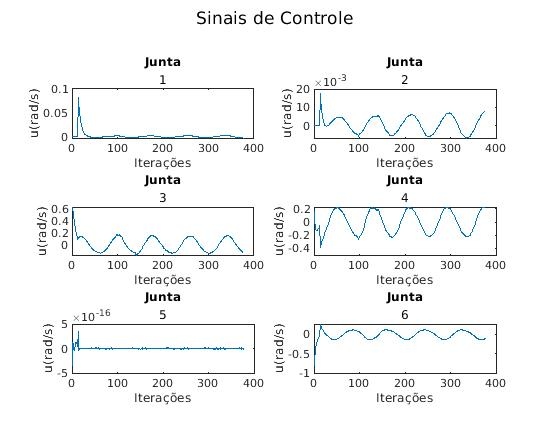
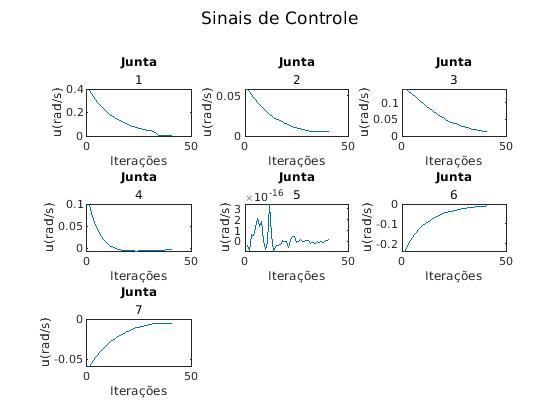
finalização 2.0

Changed region(s): [[0.0309, 0.1238, 0.9273, 0.9595], [0.34, 0.031, 0.6491, 0.0619], [0.8345, 0.5262, 0.8655, 0.5571]]

diff --git a/Questao1/Questao1B_iv.m b/Questao1/Questao1B_iv.m
@@ -16,12 +16,13 @@ if (clientID >- 1)
 
     h = [0 0 0 0 0 0 0];
 
-    [r, h(1)] = sim.simxGetObjectHandle(clientID, 'joint_1', sim.simx_opmode_blocking);
-    [r, h(2)] = sim.simxGetObjectHandle(clientID, 'joint_2', sim.simx_opmode_blocking);
-    [r, h(3)] = sim.simxGetObjectHandle(clientID, 'joint_3', sim.simx_opmode_blocking);
-    [r, h(4)] = sim.simxGetObjectHandle(clientID, 'joint_4', sim.simx_opmode_blocking);
-    [r, h(5)] = sim.simxGetObjectHandle(clientID, 'joint_5', sim.simx_opmode_blocking);
-    [r, h(6)] = sim.simxGetObjectHandle(clientID, 'joint_6', sim.simx_opmode_blocking);
+    [r, h(1)] = sim.simxGetObjectHandle(clientID, 'joint_7', sim.simx_opmode_blocking);
+    [r, h(2)] = sim.simxGetObjectHandle(clientID, 'joint_1', sim.simx_opmode_blocking);
+    [r, h(3)] = sim.simxGetObjectHandle(clientID, 'joint_2', sim.simx_opmode_blocking);
+    [r, h(4)] = sim.simxGetObjectHandle(clientID, 'joint_3', sim.simx_opmode_blocking);
+    [r, h(5)] = sim.simxGetObjectHandle(clientID, 'joint_4', sim.simx_opmode_blocking);
+    [r, h(6)] = sim.simxGetObjectHandle(clientID, 'joint_5', sim.simx_opmode_blocking);
+    [r, h(7)] = sim.simxGetObjectHandle(clientID, 'joint_6', sim.simx_opmode_blocking);
 
 else
     disp('CoppeliaSim não ativo, realizando simulações locais');
@@ -127,7 +128,7 @@ while (norm(e) > epsilon)% Critério de parada
     if (clientID >- 1)
 
         for i = 1:6
-            sim.simxSetJointTargetPosition(clientID, h(i), q(i), sim.simx_opmode_streaming)
+            sim.simxSetJointTargetPosition(clientID, h(i + 1), q(i), sim.simx_opmode_streaming)
         end
 
     end
@@ -193,7 +194,7 @@ while (toc(inicioCirculo) < 90)
     if (clientID >- 1)
 
         for i = 1:6
-            sim.simxSetJointTargetPosition(clientID, h(i), q(i), sim.simx_opmode_streaming)
+            sim.simxSetJointTargetPosition(clientID, h(i + 1), q(i), sim.simx_opmode_streaming)
         end
 
     end

diff --git a/Questao1/Questao1B_v.m b/Questao1/Questao1B_v.m
@@ -16,12 +16,13 @@ if (clientID >- 1)
 
     h = [0 0 0 0 0 0 0];
 
-    [r, h(1)] = sim.simxGetObjectHandle(clientID, 'joint_1', sim.simx_opmode_blocking);
-    [r, h(2)] = sim.simxGetObjectHandle(clientID, 'joint_2', sim.simx_opmode_blocking);
-    [r, h(3)] = sim.simxGetObjectHandle(clientID, 'joint_3', sim.simx_opmode_blocking);
-    [r, h(4)] = sim.simxGetObjectHandle(clientID, 'joint_4', sim.simx_opmode_blocking);
-    [r, h(5)] = sim.simxGetObjectHandle(clientID, 'joint_5', sim.simx_opmode_blocking);
-    [r, h(6)] = sim.simxGetObjectHandle(clientID, 'joint_6', sim.simx_opmode_blocking);
+    [r, h(1)] = sim.simxGetObjectHandle(clientID, 'joint_7', sim.simx_opmode_blocking);
+    [r, h(2)] = sim.simxGetObjectHandle(clientID, 'joint_1', sim.simx_opmode_blocking);
+    [r, h(3)] = sim.simxGetObjectHandle(clientID, 'joint_2', sim.simx_opmode_blocking);
+    [r, h(4)] = sim.simxGetObjectHandle(clientID, 'joint_3', sim.simx_opmode_blocking);
+    [r, h(5)] = sim.simxGetObjectHandle(clientID, 'joint_4', sim.simx_opmode_blocking);
+    [r, h(6)] = sim.simxGetObjectHandle(clientID, 'joint_5', sim.simx_opmode_blocking);
+    [r, h(7)] = sim.simxGetObjectHandle(clientID, 'joint_6', sim.simx_opmode_blocking);
 
 else
     disp('CoppeliaSim não ativo, realizando simulações locais');
@@ -128,7 +129,7 @@ while (norm(e) > epsilon)% Critério de parada
     if (clientID >- 1)
 
         for i = 1:6
-            sim.simxSetJointTargetPosition(clientID, h(i), q(i), sim.simx_opmode_streaming)
+            sim.simxSetJointTargetPosition(clientID, h(i + 1), q(i), sim.simx_opmode_streaming)
         end
 
     end
@@ -194,7 +195,7 @@ while (toc(inicioCirculo) < 90)
     if (clientID >- 1)
 
         for i = 1:6
-            sim.simxSetJointTargetPosition(clientID, h(i), q(i), sim.simx_opmode_streaming)
+            sim.simxSetJointTargetPosition(clientID, h(i + 1), q(i), sim.simx_opmode_streaming)
         end
 
     end

diff --git a/Questao1/Questao1A_ii.m b/Questao1/Questao1A_ii.m
@@ -16,12 +16,13 @@ if (clientID >- 1)
 
     h = [0 0 0 0 0 0 0];
 
-    [r, h(1)] = sim.simxGetObjectHandle(clientID, 'joint_1', sim.simx_opmode_blocking);
-    [r, h(2)] = sim.simxGetObjectHandle(clientID, 'joint_2', sim.simx_opmode_blocking);
-    [r, h(3)] = sim.simxGetObjectHandle(clientID, 'joint_3', sim.simx_opmode_blocking);
-    [r, h(4)] = sim.simxGetObjectHandle(clientID, 'joint_4', sim.simx_opmode_blocking);
-    [r, h(5)] = sim.simxGetObjectHandle(clientID, 'joint_5', sim.simx_opmode_blocking);
-    [r, h(6)] = sim.simxGetObjectHandle(clientID, 'joint_6', sim.simx_opmode_blocking);
+    [r, h(1)] = sim.simxGetObjectHandle(clientID, 'joint_7', sim.simx_opmode_blocking);
+    [r, h(2)] = sim.simxGetObjectHandle(clientID, 'joint_1', sim.simx_opmode_blocking);
+    [r, h(3)] = sim.simxGetObjectHandle(clientID, 'joint_2', sim.simx_opmode_blocking);
+    [r, h(4)] = sim.simxGetObjectHandle(clientID, 'joint_3', sim.simx_opmode_blocking);
+    [r, h(5)] = sim.simxGetObjectHandle(clientID, 'joint_4', sim.simx_opmode_blocking);
+    [r, h(6)] = sim.simxGetObjectHandle(clientID, 'joint_5', sim.simx_opmode_blocking);
+    [r, h(7)] = sim.simxGetObjectHandle(clientID, 'joint_6', sim.simx_opmode_blocking);
 
 else
     disp('CoppeliaSim não ativo, realizando simulações locais');
@@ -142,7 +143,7 @@ hold off
 figure(2)
 sgtitle('Sinais de Controle');
 
-for (i = 1:6)
+for i = 1:6
     subplot(3, 2, i)
     plot(control_sig(i, :))
     title('Junta', i)

diff --git a/Questao1/Questao1A_i.m b/Questao1/Questao1A_i.m
@@ -16,12 +16,13 @@ if (clientID >- 1)
 
     h = [0 0 0 0 0 0 0];
 
-    [r, h(1)] = sim.simxGetObjectHandle(clientID, 'joint_1', sim.simx_opmode_blocking);
-    [r, h(2)] = sim.simxGetObjectHandle(clientID, 'joint_2', sim.simx_opmode_blocking);
-    [r, h(3)] = sim.simxGetObjectHandle(clientID, 'joint_3', sim.simx_opmode_blocking);
-    [r, h(4)] = sim.simxGetObjectHandle(clientID, 'joint_4', sim.simx_opmode_blocking);
-    [r, h(5)] = sim.simxGetObjectHandle(clientID, 'joint_5', sim.simx_opmode_blocking);
-    [r, h(6)] = sim.simxGetObjectHandle(clientID, 'joint_6', sim.simx_opmode_blocking);
+    [r, h(1)] = sim.simxGetObjectHandle(clientID, 'joint_7', sim.simx_opmode_blocking);
+    [r, h(2)] = sim.simxGetObjectHandle(clientID, 'joint_1', sim.simx_opmode_blocking);
+    [r, h(3)] = sim.simxGetObjectHandle(clientID, 'joint_2', sim.simx_opmode_blocking);
+    [r, h(4)] = sim.simxGetObjectHandle(clientID, 'joint_3', sim.simx_opmode_blocking);
+    [r, h(5)] = sim.simxGetObjectHandle(clientID, 'joint_4', sim.simx_opmode_blocking);
+    [r, h(6)] = sim.simxGetObjectHandle(clientID, 'joint_5', sim.simx_opmode_blocking);
+    [r, h(7)] = sim.simxGetObjectHandle(clientID, 'joint_6', sim.simx_opmode_blocking);
 
 else
     disp('CoppeliaSim não ativo, realizando simulações locais');

diff --git a/Questao1/Questao1B_i.m b/Questao1/Questao1B_i.m
@@ -16,12 +16,13 @@ if (clientID >- 1)
 
     h = [0 0 0 0 0 0 0];
 
-    [r, h(1)] = sim.simxGetObjectHandle(clientID, 'joint_1', sim.simx_opmode_blocking);
-    [r, h(2)] = sim.simxGetObjectHandle(clientID, 'joint_2', sim.simx_opmode_blocking);
-    [r, h(3)] = sim.simxGetObjectHandle(clientID, 'joint_3', sim.simx_opmode_blocking);
-    [r, h(4)] = sim.simxGetObjectHandle(clientID, 'joint_4', sim.simx_opmode_blocking);
-    [r, h(5)] = sim.simxGetObjectHandle(clientID, 'joint_5', sim.simx_opmode_blocking);
-    [r, h(6)] = sim.simxGetObjectHandle(clientID, 'joint_6', sim.simx_opmode_blocking);
+    [r, h(1)] = sim.simxGetObjectHandle(clientID, 'joint_7', sim.simx_opmode_blocking);
+    [r, h(2)] = sim.simxGetObjectHandle(clientID, 'joint_1', sim.simx_opmode_blocking);
+    [r, h(3)] = sim.simxGetObjectHandle(clientID, 'joint_2', sim.simx_opmode_blocking);
+    [r, h(4)] = sim.simxGetObjectHandle(clientID, 'joint_3', sim.simx_opmode_blocking);
+    [r, h(5)] = sim.simxGetObjectHandle(clientID, 'joint_4', sim.simx_opmode_blocking);
+    [r, h(6)] = sim.simxGetObjectHandle(clientID, 'joint_5', sim.simx_opmode_blocking);
+    [r, h(7)] = sim.simxGetObjectHandle(clientID, 'joint_6', sim.simx_opmode_blocking);
 
 else
     disp('CoppeliaSim não ativo, realizando simulações locais');

diff --git a/Questao1/Questao1B_ii.m b/Questao1/Questao1B_ii.m
@@ -16,12 +16,13 @@ if (clientID >- 1)
 
     h = [0 0 0 0 0 0 0];
 
-    [r, h(1)] = sim.simxGetObjectHandle(clientID, 'joint_1', sim.simx_opmode_blocking);
-    [r, h(2)] = sim.simxGetObjectHandle(clientID, 'joint_2', sim.simx_opmode_blocking);
-    [r, h(3)] = sim.simxGetObjectHandle(clientID, 'joint_3', sim.simx_opmode_blocking);
-    [r, h(4)] = sim.simxGetObjectHandle(clientID, 'joint_4', sim.simx_opmode_blocking);
-    [r, h(5)] = sim.simxGetObjectHandle(clientID, 'joint_5', sim.simx_opmode_blocking);
-    [r, h(6)] = sim.simxGetObjectHandle(clientID, 'joint_6', sim.simx_opmode_blocking);
+    [r, h(1)] = sim.simxGetObjectHandle(clientID, 'joint_7', sim.simx_opmode_blocking);
+    [r, h(2)] = sim.simxGetObjectHandle(clientID, 'joint_1', sim.simx_opmode_blocking);
+    [r, h(3)] = sim.simxGetObjectHandle(clientID, 'joint_2', sim.simx_opmode_blocking);
+    [r, h(4)] = sim.simxGetObjectHandle(clientID, 'joint_3', sim.simx_opmode_blocking);
+    [r, h(5)] = sim.simxGetObjectHandle(clientID, 'joint_4', sim.simx_opmode_blocking);
+    [r, h(6)] = sim.simxGetObjectHandle(clientID, 'joint_5', sim.simx_opmode_blocking);
+    [r, h(7)] = sim.simxGetObjectHandle(clientID, 'joint_6', sim.simx_opmode_blocking);
 
 else
     disp('CoppeliaSim não ativo, realizando simulações locais');

diff --git a/Questao1/Questao1B_iii.m b/Questao1/Questao1B_iii.m
@@ -16,12 +16,13 @@ if (clientID >- 1)
 
     h = [0 0 0 0 0 0 0];
 
-    [r, h(1)] = sim.simxGetObjectHandle(clientID, 'joint_1', sim.simx_opmode_blocking);
-    [r, h(2)] = sim.simxGetObjectHandle(clientID, 'joint_2', sim.simx_opmode_blocking);
-    [r, h(3)] = sim.simxGetObjectHandle(clientID, 'joint_3', sim.simx_opmode_blocking);
-    [r, h(4)] = sim.simxGetObjectHandle(clientID, 'joint_4', sim.simx_opmode_blocking);
-    [r, h(5)] = sim.simxGetObjectHandle(clientID, 'joint_5', sim.simx_opmode_blocking);
-    [r, h(6)] = sim.simxGetObjectHandle(clientID, 'joint_6', sim.simx_opmode_blocking);
+    [r, h(1)] = sim.simxGetObjectHandle(clientID, 'joint_7', sim.simx_opmode_blocking);
+    [r, h(2)] = sim.simxGetObjectHandle(clientID, 'joint_1', sim.simx_opmode_blocking);
+    [r, h(3)] = sim.simxGetObjectHandle(clientID, 'joint_2', sim.simx_opmode_blocking);
+    [r, h(4)] = sim.simxGetObjectHandle(clientID, 'joint_3', sim.simx_opmode_blocking);
+    [r, h(5)] = sim.simxGetObjectHandle(clientID, 'joint_4', sim.simx_opmode_blocking);
+    [r, h(6)] = sim.simxGetObjectHandle(clientID, 'joint_5', sim.simx_opmode_blocking);
+    [r, h(7)] = sim.simxGetObjectHandle(clientID, 'joint_6', sim.simx_opmode_blocking);
 
 else
     disp('CoppeliaSim não ativo, realizando simulações locais');

diff --git a/Questao2/Questao2B_i.m b/Questao2/Questao2B_i.m
@@ -131,7 +131,7 @@ while (norm(e) > epsilon)% Critério de parada
 
     if (clientID >- 1)
 
-        for i = 1:6
+        for i = 1:7
             sim.simxSetJointTargetPosition(clientID, h(i), q(i), sim.simx_opmode_streaming)
         end
 
@@ -197,7 +197,7 @@ while (toc(inicioCirculo) < 90)
 
     if (clientID >- 1)
 
-        for i = 1:6
+        for i = 1:7
             sim.simxSetJointTargetPosition(clientID, h(i), q(i), sim.simx_opmode_streaming)
         end
 
@@ -216,8 +216,8 @@ end
 figure(2)
 sgtitle('Sinais de Controle');
 
-for (i = 1:6)
-    subplot(3, 2, i)
+for (i = 1:7)
+    subplot(3, 3, i)
     plot(control_sig(i, :))
     title('Junta', i)
     xlabel('Iterações')

diff --git a/Questao2/Questao2B_ii.m b/Questao2/Questao2B_ii.m
@@ -132,7 +132,7 @@ while (norm(e) > epsilon)% Critério de parada
 
     if (clientID >- 1)
 
-        for i = 1:6
+        for i = 1:7
             sim.simxSetJointTargetPosition(clientID, h(i), q(i), sim.simx_opmode_streaming)
         end
 
@@ -198,7 +198,7 @@ while (toc(inicioCirculo) < 90)
 
     if (clientID >- 1)
 
-        for i = 1:6
+        for i = 1:7
             sim.simxSetJointTargetPosition(clientID, h(i), q(i), sim.simx_opmode_streaming)
         end
 
@@ -217,8 +217,8 @@ end
 figure(2)
 sgtitle('Sinais de Controle');
 
-for (i = 1:6)
-    subplot(3, 2, i)
+for (i = 1:7)
+    subplot(3, 3, i)
     plot(control_sig(i, :))
     title('Junta', i)
     xlabel('Iterações')

diff --git a/Questao2/Questao2C_i.m b/Questao2/Questao2C_i.m
@@ -131,7 +131,7 @@ while (norm(e) > epsilon)% Critério de parada
 
     if (clientID >- 1)
 
-        for i = 1:6
+        for i = 1:7
             sim.simxSetJointTargetPosition(clientID, h(i), q(i), sim.simx_opmode_streaming)
         end
 
@@ -204,7 +204,7 @@ while (toc(inicioCirculo) < 90)
 
     if (clientID >- 1)
 
-        for i = 1:6
+        for i = 1:7
             sim.simxSetJointTargetPosition(clientID, h(i), q(i), sim.simx_opmode_streaming)
         end
 
@@ -223,8 +223,8 @@ end
 figure(2)
 sgtitle('Sinais de Controle');
 
-for (i = 1:6)
-    subplot(3, 2, i)
+for (i = 1:7)
+    subplot(3, 3, i)
     plot(control_sig(i, :))
     title('Junta', i)
     xlabel('Iterações')

diff --git a/Questao2/Questao2C_ii.m b/Questao2/Questao2C_ii.m
@@ -132,7 +132,7 @@ while (norm(e) > epsilon)% Critério de parada
 
     if (clientID >- 1)
 
-        for i = 1:6
+        for i = 1:7
             sim.simxSetJointTargetPosition(clientID, h(i), q(i), sim.simx_opmode_streaming)
         end
 
@@ -205,7 +205,7 @@ while (toc(inicioCirculo) < 90)
 
     if (clientID >- 1)
 
-        for i = 1:6
+        for i = 1:7
             sim.simxSetJointTargetPosition(clientID, h(i), q(i), sim.simx_opmode_streaming)
         end
 
@@ -224,8 +224,8 @@ end
 figure(2)
 sgtitle('Sinais de Controle');
 
-for (i = 1:6)
-    subplot(3, 2, i)
+for (i = 1:7)
+    subplot(3, 3, i)
     plot(control_sig(i, :))
     title('Junta', i)
     xlabel('Iterações')

diff --git a/Questao2/Questao2A.m b/Questao2/Questao2A.m
@@ -128,7 +128,7 @@ while (norm(e) > epsilon)% Critério de parada
 
     if (clientID >- 1)
 
-        for i = 1:6
+        for i = 1:7
             sim.simxSetJointTargetPosition(clientID, h(i), q(i), sim.simx_opmode_streaming)
         end
 
@@ -150,8 +150,8 @@ hold off
 figure(2)
 sgtitle('Sinais de Controle');
 
-for (i = 1:6)
-    subplot(3, 2, i)
+for (i = 1:7)
+    subplot(3, 3, i)
     plot(control_sig(i, :))
     title('Junta', i)
     xlabel('Iterações')
